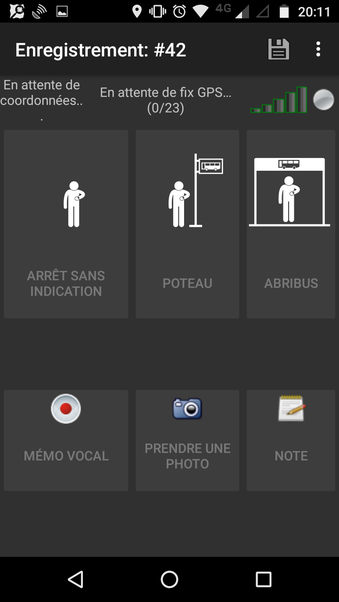
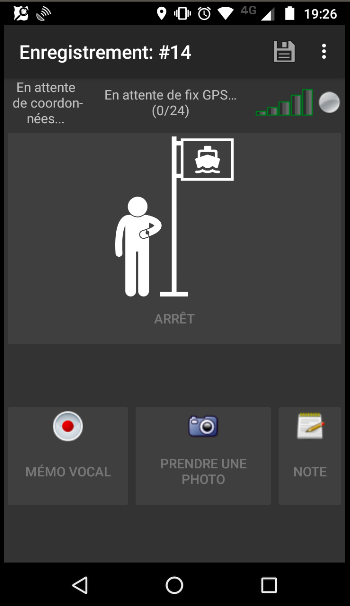
add ferry route layout

diff --git a/README.md b/README.md
@@ -19,3 +19,6 @@ Cette disposition est maintenant disponible dans la liste des dispositions, dans
 ## List of layouts
 ### Bus route
 ![Image of layout](layouts/bus_route/layout.png)
+
+### Ferry route
+![Image of layout](layouts/ferry_route/layout.png)
